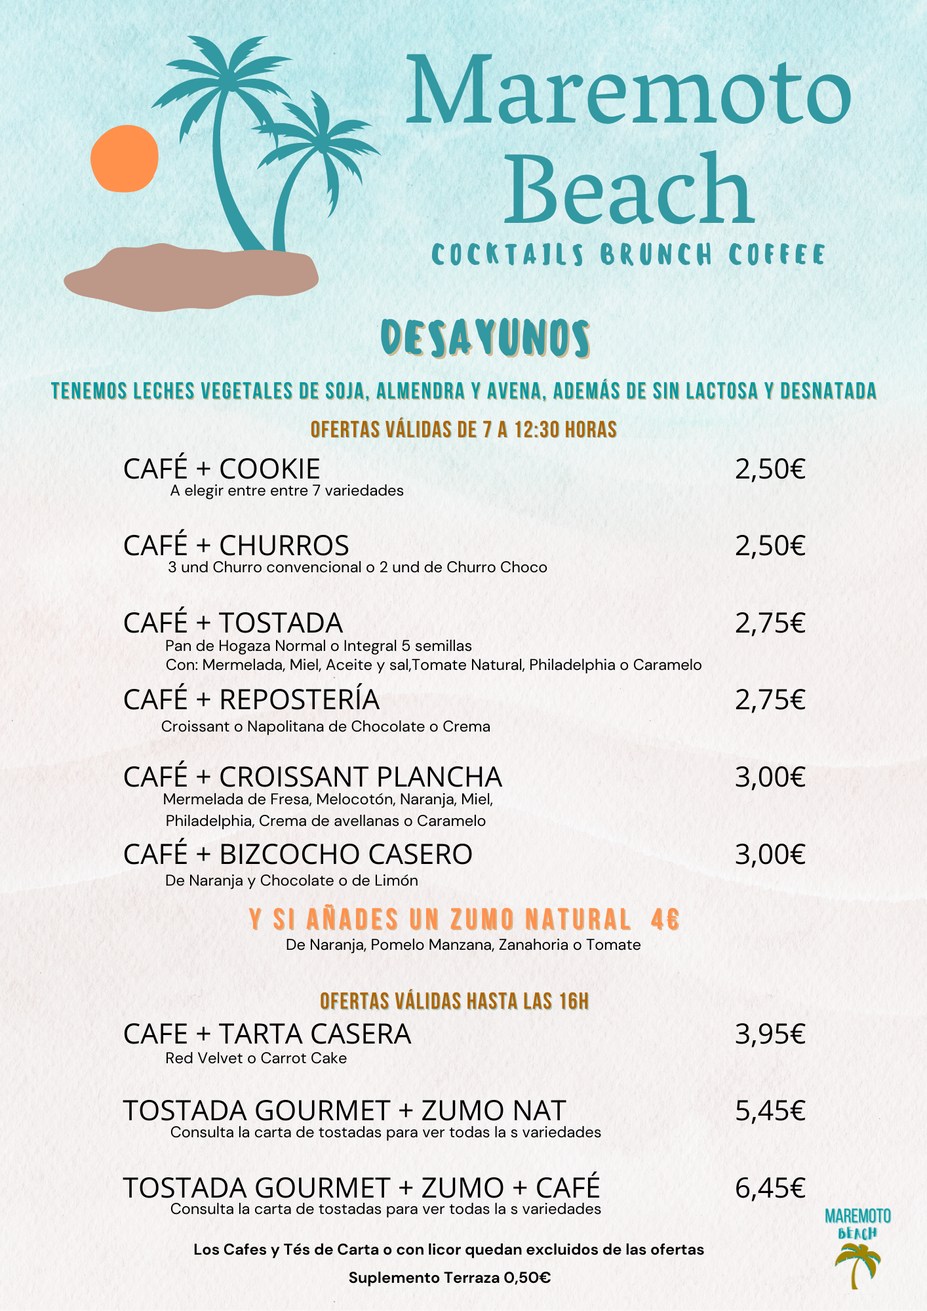
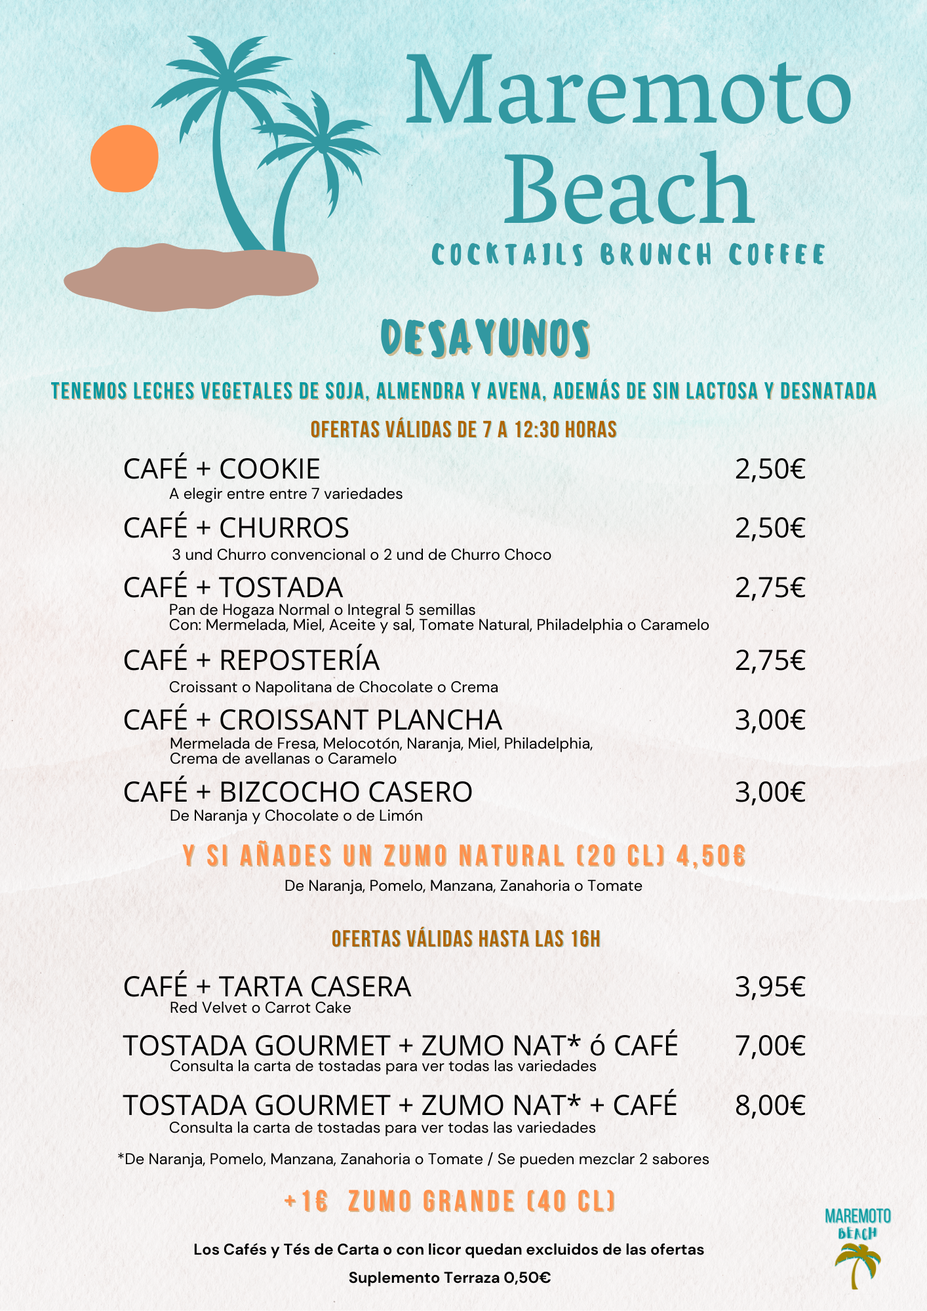
deploy: 90a28cc5facf856afe3a37b06f3d22285837bc72

diff --git a/index.html b/index.html
@@ -254,20 +254,17 @@ Carta</span></h2><div class=border-meghna></div></div></div></div><div class="ro
 <i class="las la-search"></i></div></a></div></figure><figure class="col-lg-4 shuffle-item" data-groups='["0e4289bca67302dd005790003de478e2","b34b0f802613ce0a65924e6e6d56087d"]'><div class="menu-block mb-4"><a class=open-popup-inline href=#carta-img167><img class="lozad img-fluid" data-src=/carta/285_hue412d9146efc4367ffa1ed1d58cae41e_146477_465x350_fit_q100_box.jpg alt="The First Cocktail"><div class=caption><span>The First Cocktail</span>
 <i class="las la-search"></i></div></a></div></figure><figure class="col-lg-4 shuffle-item" data-groups='["0e4289bca67302dd005790003de478e2","2862c5a8be6c58579a9fb8586143b38f"]'><div class="menu-block mb-4"><a class=open-popup-inline href=#carta-img168><img class="lozad img-fluid" data-src=/carta/322_huf0f5bb2e46a56d30b6ca066b9e0a278a_131516_465x350_fit_q100_box.jpg alt="Tom Collins"><div class=caption><span>Tom Collins</span>
 <i class="las la-search"></i></div></a></div></figure><figure class="col-lg-4 shuffle-item" data-groups='["ecf13d5ef58c49cc1a969b29140c8143","734300b6e0762615d0ee649310df1fda"]'><div class="menu-block mb-4"><a class=open-popup-inline href=#carta-img169><img class="lozad img-fluid" data-src=/carta/tortitas_hu154195a4799d715633244ee7a24898c1_1354734_465x350_fit_q100_bgffffff_box_3.jpg alt=Tortitas><div class=caption><span>Tortitas</span>
-<i class="las la-search"></i></div></a></div></figure><figure class="col-lg-4 shuffle-item" data-groups='["58890fbf21cf1187aabb3db3a4bd5a74"]'><div class="menu-block mb-4"><a class=open-popup-standalone href=/carta/tostadabrie.png><img class="lozad img-fluid" data-src=/carta/tostadabrie_hu2bfc62dbd501b835f3c73a2a1031cfb0_1698842_465x350_fit_q100_bgffffff_box_3.jpg alt="Tostada de Guacamole, Brie, Cherry y Nueces.🥑"><div class=caption><span>Tostada de Guacamole, Brie, Cherry y Nueces.🥑</span>
-<i class="las la-search"></i></div></a></div></figure><figure class="col-lg-4 shuffle-item" data-groups='["58890fbf21cf1187aabb3db3a4bd5a74"]'><div class="menu-block mb-4"><a class=open-popup-standalone href=/carta/tostadajamon.png><img class="lozad img-fluid" data-src=/carta/tostadajamon_hu6fcd28c9ac4a1310478e9978a52e99b0_1853725_465x350_fit_q100_bgffffff_box_3.jpg alt="Tostada de Jamón, Huevo y Tomate.🥚🍅"><div class=caption><span>Tostada de Jamón, Huevo y Tomate.🥚🍅</span>
-<i class="las la-search"></i></div></a></div></figure><figure class="col-lg-4 shuffle-item" data-groups='["58890fbf21cf1187aabb3db3a4bd5a74"]'><div class="menu-block mb-4"><a class=open-popup-standalone href=/carta/tostadasalmon.png><img class="lozad img-fluid" data-src=/carta/tostadasalmon_hu7069e26c91ea0e6e90b7a2dfe8219f68_1759515_465x350_fit_q100_bgffffff_box_3.jpg alt="Tostada de Salmón, Philadelphia y Anchoas."><div class=caption><span>Tostada de Salmón, Philadelphia y Anchoas.</span>
-<i class="las la-search"></i></div></a></div></figure><figure class="col-lg-4 shuffle-item" data-groups='["ecf13d5ef58c49cc1a969b29140c8143","734300b6e0762615d0ee649310df1fda"]'><div class="menu-block mb-4"><a class=open-popup-inline href=#carta-img173><img class="lozad img-fluid" data-src=/carta/ofertatostadagourmet_hufcc7a499e777bfb76793fd1860e8c821_1631975_465x350_fit_q100_bgffffff_box_3.jpg alt="Tostada Gourmet + Cerveza/Refresco y Café"><div class=caption><span>Tostada Gourmet + Cerveza/Refresco y Café</span>
-<i class="las la-search"></i></div></a></div></figure><figure class="col-lg-4 shuffle-item" data-groups='["bfee8906259b5e03945e5c6352fdef28","e75314bfc0e25377cdfd86110551909f"]'><div class="menu-block mb-4"><a class=open-popup-inline href=#carta-img174><img class="lozad img-fluid" data-src=/carta/281_hu644cdb5f040f933b4db5e5cbc645de25_128663_465x350_fit_q100_box.jpg alt=Vienés><div class=caption><span>Vienés</span>
-<i class="las la-search"></i></div></a></div></figure><figure class="col-lg-4 shuffle-item" data-groups='["988adb8ca725662baaf43e59102846c9","cba5a17a94dfdc401eed0eeda57a8987"]'><div class="menu-block mb-4"><a class=open-popup-inline href=#carta-img175><img class="lozad img-fluid" data-src=/carta/394_hu9fe761cb739059e23dcd71138d41e769_76282_465x350_fit_q100_box.jpg alt="Virgin Colada"><div class=caption><span>Virgin Colada</span>
-<i class="las la-search"></i></div></a></div></figure><figure class="col-lg-4 shuffle-item" data-groups='["988adb8ca725662baaf43e59102846c9","cba5a17a94dfdc401eed0eeda57a8987"]'><div class="menu-block mb-4"><a class=open-popup-inline href=#carta-img176><img class="lozad img-fluid" data-src=/carta/318_hu9d4d48f089656eae4dc8dc05f9ce92a4_86481_465x350_fit_q100_box.jpg alt="Virgin Mojito"><div class=caption><span>Virgin Mojito</span>
-<i class="las la-search"></i></div></a></div></figure><figure class="col-lg-4 shuffle-item" data-groups='["0e4289bca67302dd005790003de478e2","5b38d4fc03d9b2af5b32aecb51f8d9b0"]'><div class="menu-block mb-4"><a class=open-popup-inline href=#carta-img177><img class="lozad img-fluid" data-src=/carta/395_hu0f2a688d0c86c84509bfeb9563ef7f28_104146_465x350_fit_q100_box.jpg alt="Whisky Sour"><div class=caption><span>Whisky Sour</span>
-<i class="las la-search"></i></div></a></div></figure><figure class="col-lg-4 shuffle-item" data-groups='["0e4289bca67302dd005790003de478e2","f4fb4e8d6bcb19d8b77736d08477c7b6"]'><div class="menu-block mb-4"><a class=open-popup-inline href=#carta-img178><img class="lozad img-fluid" data-src=/carta/xoringer_hu7fd0c1a89844117f7fbe4f2ce599a2fc_127134_465x350_fit_q100_box.jpeg alt="Xoringer & Schweppes Toque de Lima"><div class=caption><span>Xoringer & Schweppes Toque de Lima</span>
+<i class="las la-search"></i></div></a></div></figure><figure class="col-lg-4 shuffle-item" data-groups='["ecf13d5ef58c49cc1a969b29140c8143","734300b6e0762615d0ee649310df1fda"]'><div class="menu-block mb-4"><a class=open-popup-inline href=#carta-img170><img class="lozad img-fluid" data-src=/carta/ofertatostadagourmet_hubb7548a33b62c5ea0c5f6e49cfc777a5_1674918_465x350_fit_q100_bgffffff_box_3.jpg alt="Tostada Gourmet + Zumo"><div class=caption><span>Tostada Gourmet + Zumo</span>
+<i class="las la-search"></i></div></a></div></figure><figure class="col-lg-4 shuffle-item" data-groups='["bfee8906259b5e03945e5c6352fdef28","e75314bfc0e25377cdfd86110551909f"]'><div class="menu-block mb-4"><a class=open-popup-inline href=#carta-img171><img class="lozad img-fluid" data-src=/carta/281_hu644cdb5f040f933b4db5e5cbc645de25_128663_465x350_fit_q100_box.jpg alt=Vienés><div class=caption><span>Vienés</span>
+<i class="las la-search"></i></div></a></div></figure><figure class="col-lg-4 shuffle-item" data-groups='["988adb8ca725662baaf43e59102846c9","cba5a17a94dfdc401eed0eeda57a8987"]'><div class="menu-block mb-4"><a class=open-popup-inline href=#carta-img172><img class="lozad img-fluid" data-src=/carta/394_hu9fe761cb739059e23dcd71138d41e769_76282_465x350_fit_q100_box.jpg alt="Virgin Colada"><div class=caption><span>Virgin Colada</span>
+<i class="las la-search"></i></div></a></div></figure><figure class="col-lg-4 shuffle-item" data-groups='["988adb8ca725662baaf43e59102846c9","cba5a17a94dfdc401eed0eeda57a8987"]'><div class="menu-block mb-4"><a class=open-popup-inline href=#carta-img173><img class="lozad img-fluid" data-src=/carta/318_hu9d4d48f089656eae4dc8dc05f9ce92a4_86481_465x350_fit_q100_box.jpg alt="Virgin Mojito"><div class=caption><span>Virgin Mojito</span>
+<i class="las la-search"></i></div></a></div></figure><figure class="col-lg-4 shuffle-item" data-groups='["0e4289bca67302dd005790003de478e2","5b38d4fc03d9b2af5b32aecb51f8d9b0"]'><div class="menu-block mb-4"><a class=open-popup-inline href=#carta-img174><img class="lozad img-fluid" data-src=/carta/395_hu0f2a688d0c86c84509bfeb9563ef7f28_104146_465x350_fit_q100_box.jpg alt="Whisky Sour"><div class=caption><span>Whisky Sour</span>
+<i class="las la-search"></i></div></a></div></figure><figure class="col-lg-4 shuffle-item" data-groups='["0e4289bca67302dd005790003de478e2","f4fb4e8d6bcb19d8b77736d08477c7b6"]'><div class="menu-block mb-4"><a class=open-popup-inline href=#carta-img175><img class="lozad img-fluid" data-src=/carta/xoringer_hu7fd0c1a89844117f7fbe4f2ce599a2fc_127134_465x350_fit_q100_box.jpeg alt="Xoringer & Schweppes Toque de Lima"><div class=caption><span>Xoringer & Schweppes Toque de Lima</span>
 <i class="las la-search"></i></div></a></div></figure><figure class="col-lg-4 shuffle-item" data-groups='["58890fbf21cf1187aabb3db3a4bd5a74"]'><div class="menu-block mb-4"><a class=open-popup-standalone href=/carta/cartazumos.png><img class="lozad img-fluid" data-src=/carta/portadazumos_small.png alt="Zumos Naturales 🍊🍏🥕🍎"><div class=caption><span>Zumos Naturales 🍊🍏🥕🍎</span>
-<i class="las la-search"></i></div></a></div></figure><figure class="col-lg-4 shuffle-item" data-groups='["988adb8ca725662baaf43e59102846c9","cba5a17a94dfdc401eed0eeda57a8987"]'><div class="menu-block mb-4"><a class=open-popup-inline href=#carta-img180><div class=caption><span>Frescor Cálido (Fuera de temporada)</span>
-<i class="las la-search"></i></div></a></div></figure><figure class="col-lg-4 shuffle-item" data-groups='["0e4289bca67302dd005790003de478e2","b34b0f802613ce0a65924e6e6d56087d"]'><div class="menu-block mb-4"><a class=open-popup-inline href=#carta-img181><div class=caption><span>Miyako 🆕 (Fuera de temporada)</span>
-<i class="las la-search"></i></div></a></div></figure><figure class="col-lg-4 shuffle-item" data-groups='["0e4289bca67302dd005790003de478e2","b34b0f802613ce0a65924e6e6d56087d"]'><div class="menu-block mb-4"><a class=open-popup-inline href=#carta-img182><div class=caption><span>Tangerine Vintage 🍊🆕 (Fuera de temporada)</span>
-<i class="las la-search"></i></div></a></div></figure><figure class="col-lg-4 shuffle-item" data-groups='["0e4289bca67302dd005790003de478e2","b34b0f802613ce0a65924e6e6d56087d"]'><div class="menu-block mb-4"><a class=open-popup-inline href=#carta-img183><div class=caption><span>Tropea Beach (Fuera de temporada)</span>
+<i class="las la-search"></i></div></a></div></figure><figure class="col-lg-4 shuffle-item" data-groups='["988adb8ca725662baaf43e59102846c9","cba5a17a94dfdc401eed0eeda57a8987"]'><div class="menu-block mb-4"><a class=open-popup-inline href=#carta-img177><div class=caption><span>Frescor Cálido (Fuera de temporada)</span>
+<i class="las la-search"></i></div></a></div></figure><figure class="col-lg-4 shuffle-item" data-groups='["0e4289bca67302dd005790003de478e2","b34b0f802613ce0a65924e6e6d56087d"]'><div class="menu-block mb-4"><a class=open-popup-inline href=#carta-img178><div class=caption><span>Miyako 🆕 (Fuera de temporada)</span>
+<i class="las la-search"></i></div></a></div></figure><figure class="col-lg-4 shuffle-item" data-groups='["0e4289bca67302dd005790003de478e2","b34b0f802613ce0a65924e6e6d56087d"]'><div class="menu-block mb-4"><a class=open-popup-inline href=#carta-img179><div class=caption><span>Tangerine Vintage 🍊🆕 (Fuera de temporada)</span>
+<i class="las la-search"></i></div></a></div></figure><figure class="col-lg-4 shuffle-item" data-groups='["0e4289bca67302dd005790003de478e2","b34b0f802613ce0a65924e6e6d56087d"]'><div class="menu-block mb-4"><a class=open-popup-inline href=#carta-img180><div class=caption><span>Tropea Beach (Fuera de temporada)</span>
 <i class="las la-search"></i></div></a></div></figure></div><div id=menu-popups class=d-none><div id=carta-img0 class="carta-img mfp-hide"><div class=popup-content><div class=popup-img><img class=lozad data-src=/carta/bewelcome.jpg alt="Be Welcome🍍🆕"></div><div class=popup-details><h1>Be Welcome🍍🆕</h1><div class=field-ingredientes><p><i class="field-icon las la-book"></i>
 <span class=field-title>Ingredientes:</span>
 <span class=field-description>Italicus Rogsolio de Bergamota, Chadornnay infusionado con Té de Jazmín, Gin Saffron, Soda de Piña Asada y Menta.</span></p></div><div class=field-alergenos><p><i class="field-icon las la-times"></i>
@@ -1973,12 +1970,12 @@ Todas las tardes de 16h a 22,30h con tu Cappuccino Gratis una Cookie casera a el
 <span class=field-title>PVP en local:</span>
 <span class=field-description>3,75€</span></p></div><div class=field-pvp_terraza><p><i class="field-icon las la-money-bill-wave"></i>
 <span class=field-title>PVP en terraza:</span>
-<span class=field-description>3,75€</span></p></div></div></div></div><div id=carta-img170 class="carta-img mfp-hide"></div><div id=carta-img171 class="carta-img mfp-hide"></div><div id=carta-img172 class="carta-img mfp-hide"></div><div id=carta-img173 class="carta-img mfp-hide"><div class=popup-content><div class=popup-img><img class=lozad data-src=/carta/ofertatostadagourmet.png alt="Tostada Gourmet + Cerveza/Refresco y Café"></div><div class=popup-details><h1>Tostada Gourmet + Cerveza/Refresco y Café</h1><div class=field-txt_aclaraciones><p><i class="field-icon las la-info-circle"></i>
+<span class=field-description>3,75€</span></p></div></div></div></div><div id=carta-img170 class="carta-img mfp-hide"><div class=popup-content><div class=popup-img><img class=lozad data-src=/carta/ofertatostadagourmet.png alt="Tostada Gourmet + Zumo"></div><div class=popup-details><h1>Tostada Gourmet + Zumo</h1><div class=field-txt_aclaraciones><p><i class="field-icon las la-info-circle"></i>
 <span class=field-description>En pan de Hogaza Normal o Integral 5 Semillas. Otras opciones diponibles son; Con Salmón ahumado, Philadelphia y Anchoas o Con Jamón Serrano Tomate y Huevo revuelto. Oferta válida de 7 a 16h</span></p></div><div class=field-pvp_local><p><i class="field-icon las la-money-bill-wave"></i>
 <span class=field-title>PVP en local:</span>
-<span class=field-description>Tostada 3,95€ + Bebida 5,45€ + Café 6,45€</span></p></div><div class=field-pvp_terraza><p><i class="field-icon las la-money-bill-wave"></i>
+<span class=field-description>7€ + Café 8€</span></p></div><div class=field-pvp_terraza><p><i class="field-icon las la-money-bill-wave"></i>
 <span class=field-title>PVP en terraza:</span>
-<span class=field-description>Tostada 3,95€ + Bebida 5,95€ + Café 6,95€</span></p></div></div></div></div><div id=carta-img174 class="carta-img mfp-hide"><div class=popup-content><div class=popup-img><img class=lozad data-src=/carta/281.jpg alt=Vienés></div><div class=popup-details><h1>Vienés</h1><div class=field-ingredientes><p><i class="field-icon las la-book"></i>
+<span class=field-description>7,50€ + Café 8,50€</span></p></div></div></div></div><div id=carta-img171 class="carta-img mfp-hide"><div class=popup-content><div class=popup-img><img class=lozad data-src=/carta/281.jpg alt=Vienés></div><div class=popup-details><h1>Vienés</h1><div class=field-ingredientes><p><i class="field-icon las la-book"></i>
 <span class=field-title>Ingredientes:</span>
 <span class=field-description>Café espresso, Nata semimontada y Topping de Chocolate.</span></p></div><div class=field-alergenos><p><i class="field-icon las la-times"></i>
 <span class=field-title>Alérgenos:</span>
@@ -1988,7 +1985,7 @@ Todas las tardes de 16h a 22,30h con tu Cappuccino Gratis una Cookie casera a el
 <span class=field-title>PVP en local:</span>
 <span class=field-description>3€</span></p></div><div class=field-pvp_terraza><p><i class="field-icon las la-money-bill-wave"></i>
 <span class=field-title>PVP en terraza:</span>
-<span class=field-description>3,50€</span></p></div></div></div></div><div id=carta-img175 class="carta-img mfp-hide"><div class=popup-content><div class=popup-img><img class=lozad data-src=/carta/394.jpg alt="Virgin Colada"></div><div class=popup-details><h1>Virgin Colada</h1><div class=field-ingredientes><p><i class="field-icon las la-book"></i>
+<span class=field-description>3,50€</span></p></div></div></div></div><div id=carta-img172 class="carta-img mfp-hide"><div class=popup-content><div class=popup-img><img class=lozad data-src=/carta/394.jpg alt="Virgin Colada"></div><div class=popup-details><h1>Virgin Colada</h1><div class=field-ingredientes><p><i class="field-icon las la-book"></i>
 <span class=field-title>Ingredientes:</span>
 <span class=field-description>Zumo de Piña, Zumo de Lima, Puré de coco, Azúcar y Nata.</span></p></div><div class=field-alergenos><p><i class="field-icon las la-times"></i>
 <span class=field-title>Alérgenos:</span>
@@ -2002,7 +1999,7 @@ Todas las tardes de 16h a 22,30h con tu Cappuccino Gratis una Cookie casera a el
 <span class=field-title>PVP en local:</span>
 <span class=field-description>6,5€</span></p></div><div class=field-pvp_terraza><p><i class="field-icon las la-money-bill-wave"></i>
 <span class=field-title>PVP en terraza:</span>
-<span class=field-description>7€</span></p></div></div></div></div><div id=carta-img176 class="carta-img mfp-hide"><div class=popup-content><div class=popup-img><img class=lozad data-src=/carta/318.jpg alt="Virgin Mojito"></div><div class=popup-details><h1>Virgin Mojito</h1><div class=field-ingredientes><p><i class="field-icon las la-book"></i>
+<span class=field-description>7€</span></p></div></div></div></div><div id=carta-img173 class="carta-img mfp-hide"><div class=popup-content><div class=popup-img><img class=lozad data-src=/carta/318.jpg alt="Virgin Mojito"></div><div class=popup-details><h1>Virgin Mojito</h1><div class=field-ingredientes><p><i class="field-icon las la-book"></i>
 <span class=field-title>Ingredientes:</span>
 <span class=field-description>Lima, Hierbabuena, Azucar, Piña, Jengibre fresco y Soda.</span></p></div><div class=field-txt_temporal><p><i class="field-icon las la-calendar-alt"></i>
 <span class=field-title>Temporalidad:</span>
@@ -2014,7 +2011,7 @@ Todas las tardes de 16h a 22,30h con tu Cappuccino Gratis una Cookie casera a el
 <span class=field-title>PVP en local:</span>
 <span class=field-description>6,5€</span></p></div><div class=field-pvp_terraza><p><i class="field-icon las la-money-bill-wave"></i>
 <span class=field-title>PVP en terraza:</span>
-<span class=field-description>7€</span></p></div></div></div></div><div id=carta-img177 class="carta-img mfp-hide"><div class=popup-content><div class=popup-img><img class=lozad data-src=/carta/395.jpg alt="Whisky Sour"></div><div class=popup-details><h1>Whisky Sour</h1><div class=field-ingredientes><p><i class="field-icon las la-book"></i>
+<span class=field-description>7€</span></p></div></div></div></div><div id=carta-img174 class="carta-img mfp-hide"><div class=popup-content><div class=popup-img><img class=lozad data-src=/carta/395.jpg alt="Whisky Sour"></div><div class=popup-details><h1>Whisky Sour</h1><div class=field-ingredientes><p><i class="field-icon las la-book"></i>
 <span class=field-title>Ingredientes:</span>
 <span class=field-description>Bulleit bourbon, Zumo de Limón, Clara de Huevo pasteurizada, Angostura y Azúcar.</span></p></div><div class=field-alergenos><p><i class="field-icon las la-times"></i>
 <span class=field-title>Alérgenos:</span>
@@ -2028,7 +2025,7 @@ Todas las tardes de 16h a 22,30h con tu Cappuccino Gratis una Cookie casera a el
 <span class=field-title>PVP en local:</span>
 <span class=field-description>8€</span></p></div><div class=field-pvp_terraza><p><i class="field-icon las la-money-bill-wave"></i>
 <span class=field-title>PVP en terraza:</span>
-<span class=field-description>8,5€</span></p></div></div></div></div><div id=carta-img178 class="carta-img mfp-hide"><div class=popup-content><div class=popup-img><img class=lozad data-src=/carta/xoringer.jpeg alt="Xoringer & Schweppes Toque de Lima"></div><div class=popup-details><h1>Xoringer & Schweppes Toque de Lima</h1><div class=field-txt_aclaraciones><p><i class="field-icon las la-info-circle"></i>
+<span class=field-description>8,5€</span></p></div></div></div></div><div id=carta-img175 class="carta-img mfp-hide"><div class=popup-content><div class=popup-img><img class=lozad data-src=/carta/xoringer.jpeg alt="Xoringer & Schweppes Toque de Lima"></div><div class=popup-details><h1>Xoringer & Schweppes Toque de Lima</h1><div class=field-txt_aclaraciones><p><i class="field-icon las la-info-circle"></i>
 <span class=field-description>Ginebra menorquina elaborada con alcohol vinico. Sabor suave y mediterraneo.</span></p></div><div class=field-txt_temporal><p><i class="field-icon las la-calendar-alt"></i>
 <span class=field-title>Temporalidad:</span>
 <span class=field-description>Disponible todo el año.</span></p></div><div class=field-grad_alcoholica><p><i class="field-icon las la-glass-martini"></i>
@@ -2039,7 +2036,7 @@ Todas las tardes de 16h a 22,30h con tu Cappuccino Gratis una Cookie casera a el
 <span class=field-title>PVP en local:</span>
 <span class=field-description>7,5€</span></p></div><div class=field-pvp_terraza><p><i class="field-icon las la-money-bill-wave"></i>
 <span class=field-title>PVP en terraza:</span>
-<span class=field-description>8€</span></p></div></div></div></div><div id=carta-img179 class="carta-img mfp-hide"></div><div id=carta-img180 class="carta-img mfp-hide"><div class=popup-content><div class=popup-img><img class=lozad data-src=/carta/311.jpg alt="Frescor Cálido (Fuera de temporada)"></div><div class=popup-details><h1>Frescor Cálido (Fuera de temporada)</h1><div class=field-ingredientes><p><i class="field-icon las la-book"></i>
+<span class=field-description>8€</span></p></div></div></div></div><div id=carta-img176 class="carta-img mfp-hide"></div><div id=carta-img177 class="carta-img mfp-hide"><div class=popup-content><div class=popup-img><img class=lozad data-src=/carta/311.jpg alt="Frescor Cálido (Fuera de temporada)"></div><div class=popup-details><h1>Frescor Cálido (Fuera de temporada)</h1><div class=field-ingredientes><p><i class="field-icon las la-book"></i>
 <span class=field-title>Ingredientes:</span>
 <span class=field-description>Zumo Natural de Granada, Sirope de Especias, Zumo de Limón, Canela y Soda.</span></p></div><div class=field-txt_temporal><p><i class="field-icon las la-calendar-alt"></i>
 <span class=field-title>Temporalidad:</span>
@@ -2049,7 +2046,7 @@ Todas las tardes de 16h a 22,30h con tu Cappuccino Gratis una Cookie casera a el
 <span class=field-title>PVP en local:</span>
 <span class=field-description>6,5€</span></p></div><div class=field-pvp_terraza><p><i class="field-icon las la-money-bill-wave"></i>
 <span class=field-title>PVP en terraza:</span>
-<span class=field-description>7€</span></p></div></div></div></div><div id=carta-img181 class="carta-img mfp-hide"><div class=popup-content><div class=popup-img><img class=lozad data-src=/carta/miyako.jpeg alt="Miyako 🆕 (Fuera de temporada)"></div><div class=popup-details><h1>Miyako 🆕 (Fuera de temporada)</h1><div class=field-ingredientes><p><i class="field-icon las la-book"></i>
+<span class=field-description>7€</span></p></div></div></div></div><div id=carta-img178 class="carta-img mfp-hide"><div class=popup-content><div class=popup-img><img class=lozad data-src=/carta/miyako.jpeg alt="Miyako 🆕 (Fuera de temporada)"></div><div class=popup-details><h1>Miyako 🆕 (Fuera de temporada)</h1><div class=field-ingredientes><p><i class="field-icon las la-book"></i>
 <span class=field-title>Ingredientes:</span>
 <span class=field-description>Ginebra Gin-Za, Sirope de Mandarina, Zumo Nat de Mandarina, Sirope de Cardamomo, Sirope de Romero, Limoncello Pallini, Campari y Clara de huevo pasteurizada</span></p></div><div class=field-alergenos><p><i class="field-icon las la-times"></i>
 <span class=field-title>Alérgenos:</span>
@@ -2060,7 +2057,7 @@ Todas las tardes de 16h a 22,30h con tu Cappuccino Gratis una Cookie casera a el
 <span class=field-title>PVP en local:</span>
 <span class=field-description>8,5€</span></p></div><div class=field-pvp_terraza><p><i class="field-icon las la-money-bill-wave"></i>
 <span class=field-title>PVP en terraza:</span>
-<span class=field-description>9€</span></p></div></div></div></div><div id=carta-img182 class="carta-img mfp-hide"><div class=popup-content><div class=popup-img><img class=lozad data-src=/carta/tangerine.jpg alt="Tangerine Vintage 🍊🆕 (Fuera de temporada)"></div><div class=popup-details><h1>Tangerine Vintage 🍊🆕 (Fuera de temporada)</h1><div class=field-ingredientes><p><i class="field-icon las la-book"></i>
+<span class=field-description>9€</span></p></div></div></div></div><div id=carta-img179 class="carta-img mfp-hide"><div class=popup-content><div class=popup-img><img class=lozad data-src=/carta/tangerine.jpg alt="Tangerine Vintage 🍊🆕 (Fuera de temporada)"></div><div class=popup-details><h1>Tangerine Vintage 🍊🆕 (Fuera de temporada)</h1><div class=field-ingredientes><p><i class="field-icon las la-book"></i>
 <span class=field-title>Ingredientes:</span>
 <span class=field-description>JB Botanico, Zumo de mandarina, Sirope de frambuesa, Te de Vainilla y Pedro Ximenez.</span></p></div><div class=field-alergenos><p><i class="field-icon las la-times"></i>
 <span class=field-title>Alérgenos:</span>
@@ -2071,7 +2068,7 @@ Todas las tardes de 16h a 22,30h con tu Cappuccino Gratis una Cookie casera a el
 <span class=field-title>PVP en local:</span>
 <span class=field-description>8€</span></p></div><div class=field-pvp_terraza><p><i class="field-icon las la-money-bill-wave"></i>
 <span class=field-title>PVP en terraza:</span>
-<span class=field-description>8,5€</span></p></div></div></div></div><div id=carta-img183 class="carta-img mfp-hide"><div class=popup-content><div class=popup-img><img class=lozad data-src=/carta/tropeabeach.jpeg alt="Tropea Beach (Fuera de temporada)"></div><div class=popup-details><h1>Tropea Beach (Fuera de temporada)</h1><div class=field-ingredientes><p><i class="field-icon las la-book"></i>
+<span class=field-description>8,5€</span></p></div></div></div></div><div id=carta-img180 class="carta-img mfp-hide"><div class=popup-content><div class=popup-img><img class=lozad data-src=/carta/tropeabeach.jpeg alt="Tropea Beach (Fuera de temporada)"></div><div class=popup-details><h1>Tropea Beach (Fuera de temporada)</h1><div class=field-ingredientes><p><i class="field-icon las la-book"></i>
 <span class=field-title>Ingredientes:</span>
 <span class=field-description>Vodka Finlandia, Italicus, Zumo de Granada Natural, Sirope de Romero Homemade.</span></p></div><div class=field-txt_aclaraciones><p><i class="field-icon las la-info-circle"></i>
 <span class=field-description>Aromas herbales y florales del mediterraneo junto a selectos licores italianos se mezclan en este cocktail inspirado en la maravillosa playa de tropea en la localidad italiana de Calabria.</span></p></div><div class=field-txt_temporal><p><i class="field-icon las la-calendar-alt"></i>
